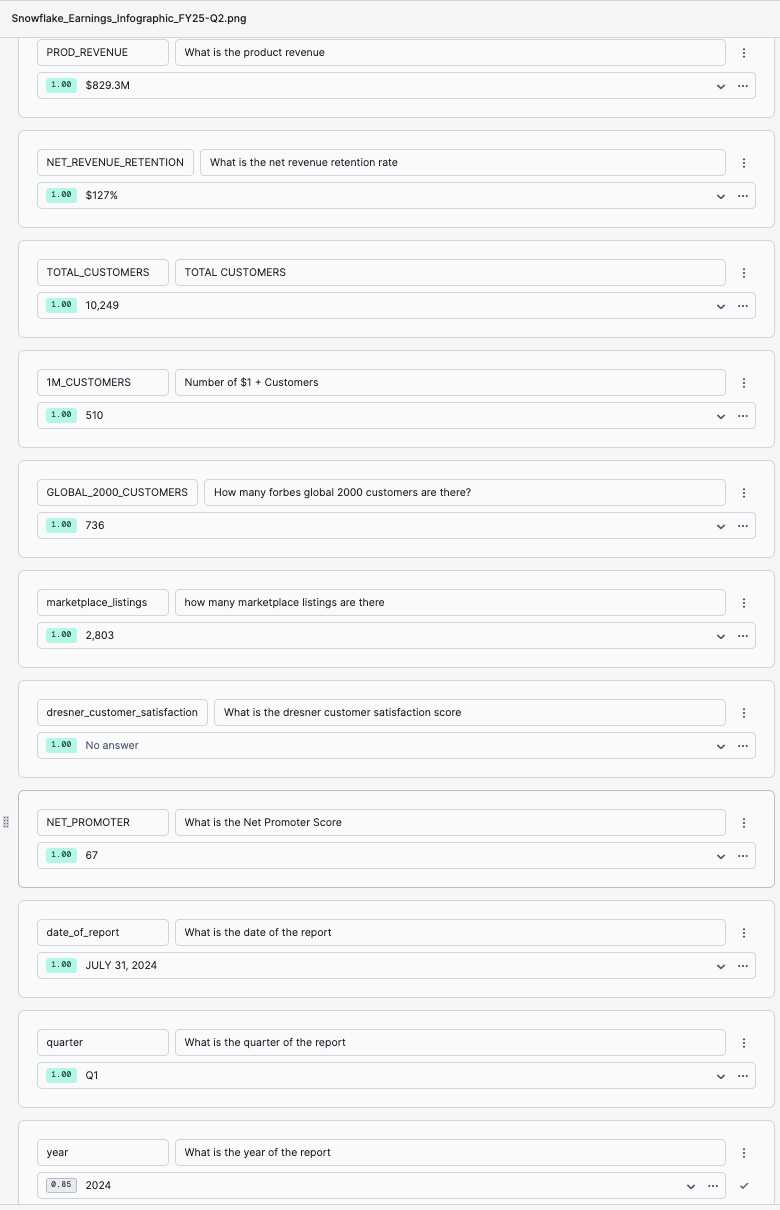
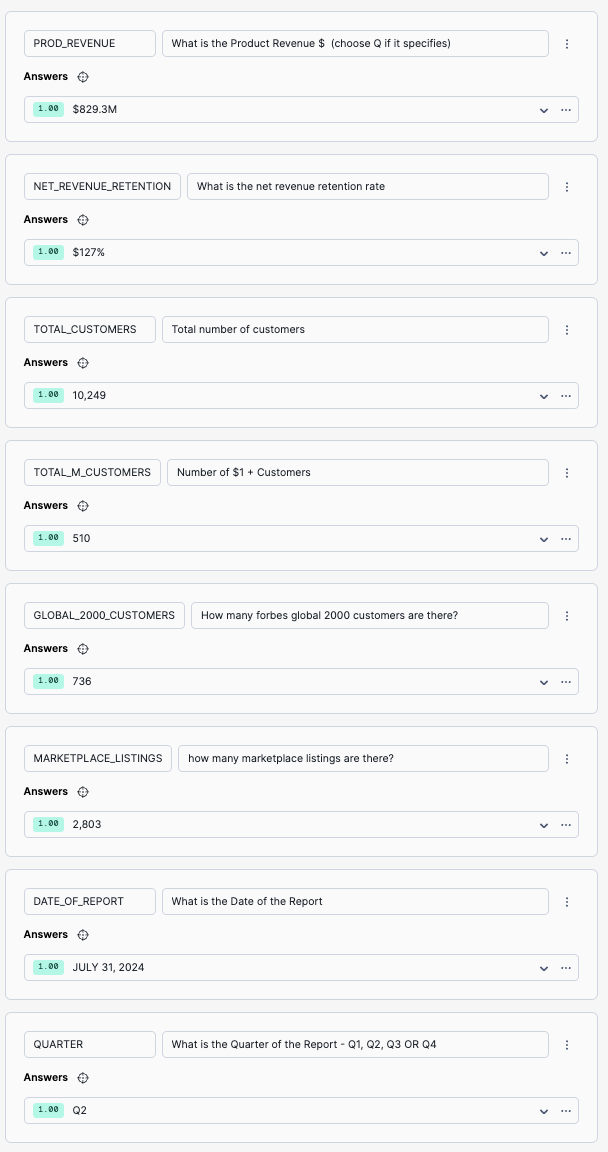
DFDFDF

Changed region(s): [[0.0, 0.0, 1.0, 1.0], [0.9062, 0.3125, 0.9375, 0.3438]]

diff --git a/dataops/event/homepage/docs/document_ai.md b/dataops/event/homepage/docs/document_ai.md
@@ -133,7 +133,7 @@ Upload the previously downloaded **Infographic** files using the Upload document
 | PROD_REVENUE | What is the product revenue (choose Q if it specifies)  |
 | NET_REVENUE_RETENTION | What is the net revenue retention rate     |
 | TOTAL_CUSTOMERS    | TOTAL CUSTOMERS    |
-| 1M_CUSTOMERS   | Number of $1 + Customers    |
+| TOTAL_M_CUSTOMERS   | Number of $1 + Customers    |
 | GLOBAL_2000_CUSTOMERS   | How many forbes global 2000 customers are there?    |
 | MARKETPLACE_LISTINGS  | how many marketplace listings are there?    |
 | DATE_OF_REPORT   | What is the date of the report    |
@@ -147,20 +147,38 @@ You should finish with answers similar to this.  Remember to correct answers whi
 
 ![create build](assets/docai/D010.png)
 
+
+
 - Press **Publish Version** to publish a new version.  Do not press train as this may take too much time for the lab.  The accuracy score is also very high as the model has given the correct answers without training.
 
 You will now have a second model which will allow you to extract the infographic information into a structured table.
 
-You have now created 2 models to process documents.  Let's now process some documents.  We have more documents both for Analyst Reports and infographics in a stage.  We can use our new models to extract structured information out of them.  In addition, we will extract all the text out of the Analyst reports for search purposes.
+You have now created two models to process documents.  
 
 ### Process Documents at Scale
 
+Let's now process some documents.  We have more documents both for Analyst Reports and infographics in a stage.  We can use our new models to extract structured information out of them.  In addition, we will extract all the text out of the Analyst reports for search purposes.
+
+For the next Document AI steps, you will use **Snowflake Notebooks** to process the documents as well as **visualise** the outputs.
+
+#### Model 1 - ANALYST_REPORTS
 - Go back to the home page and click on **Projects > Notebooks**
 - Click on the **Document AI Analyst Reports** notebook
 
 - Run through the notebook to process the **Analyst Reports**.
 
-- Go back to the Notebooks and open the **INFOGRAPHICS** notebook
+This notebook will perform the following:
 
-- Run through the notebook to process the **Infographics**
+-   Extract the values defined in the **ANALYST_REPORTS** model you have created from a directory of files residing in a **Snowflake Stage**
+
+-   Create a structured table of information
+
+-   Extract all remaining text using **Cortex Parse Document**
+
+#### Model 2 - INFOGRAPHICS
+
+You will run a second notebook which will also extract the structured text out of the **Infographic** image files stored in a **Snowflake Stage**.
+
+- Go back to the Notebooks and open the **INFOGRAPHICS** notebook
+- Run through the notebook to process the **Infographics** which will extract all values and store the results in a new structured table.
 
